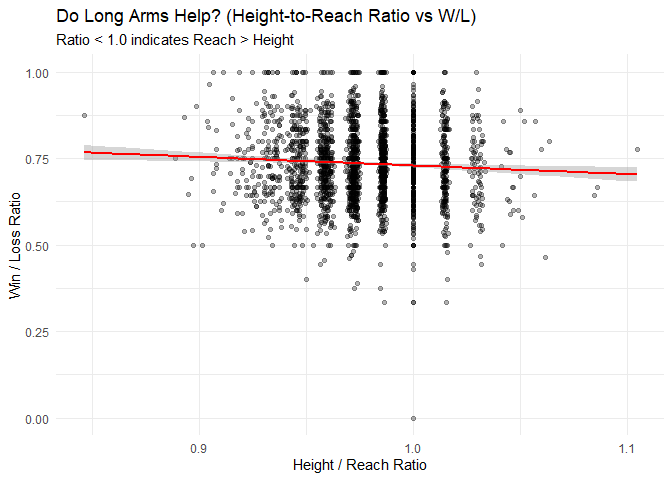
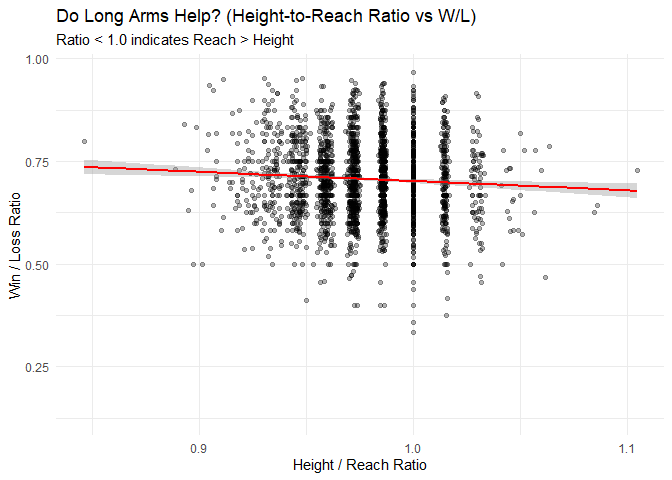
Implemented Gabriels suggestions and made the maps log scale for a better visualization

diff --git a/Projects/46Cent/raw_data_UFC/dariodemenus.md b/Projects/46Cent/raw_data_UFC/dariodemenus.md
@@ -27,8 +27,13 @@
         Weight_lbs = clean_weight(Wt.),
         Reach_in = clean_reach(Reach),
         Total_Fights = W + L + D,
-        # Avoid division by zero
-        WL_Ratio = ifelse(Total_Fights > 0, W / (W + L), 0)
+        # ---------------------------------------------------------
+        # IMPLEMENTATION OF GABRIEL'S SUGGESTION
+        # Laplace Smoothing: (Wins + 1) / (Wins + Losses + 2)
+        # This prevents 1.0 ratios for fighters with few fights 
+        # and handles division by zero automatically.
+        # ---------------------------------------------------------
+        WL_Ratio = (W + 1) / (W + L + 2)
       ) %>%
       filter(!is.na(Weight_lbs))
 
